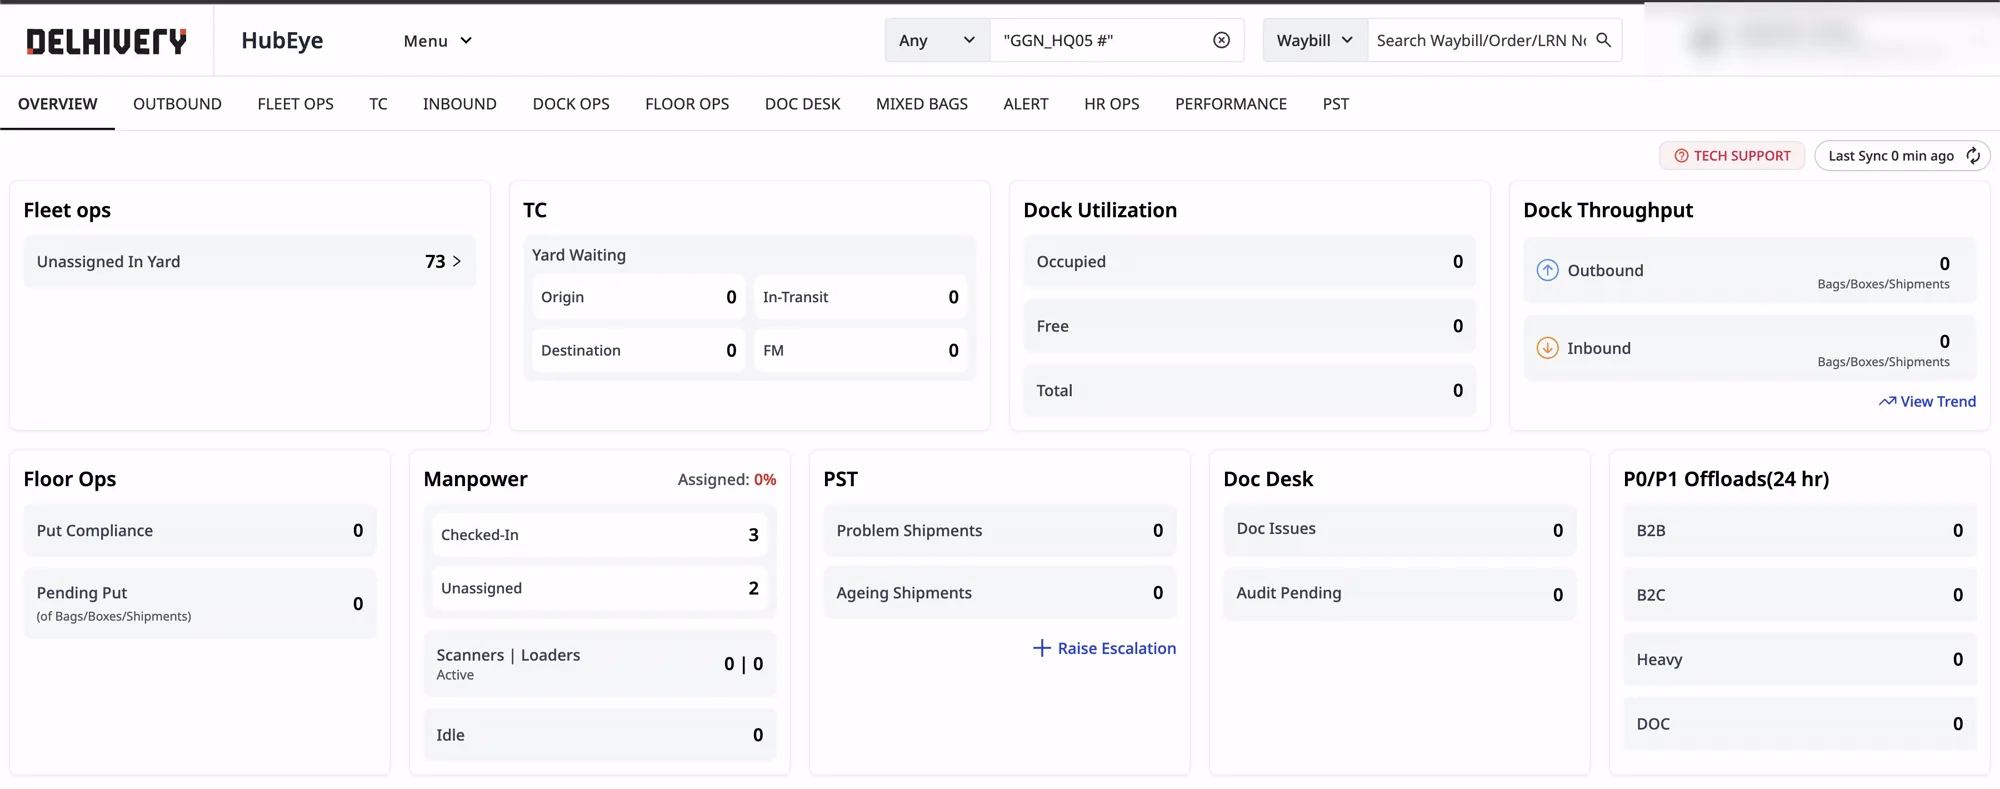
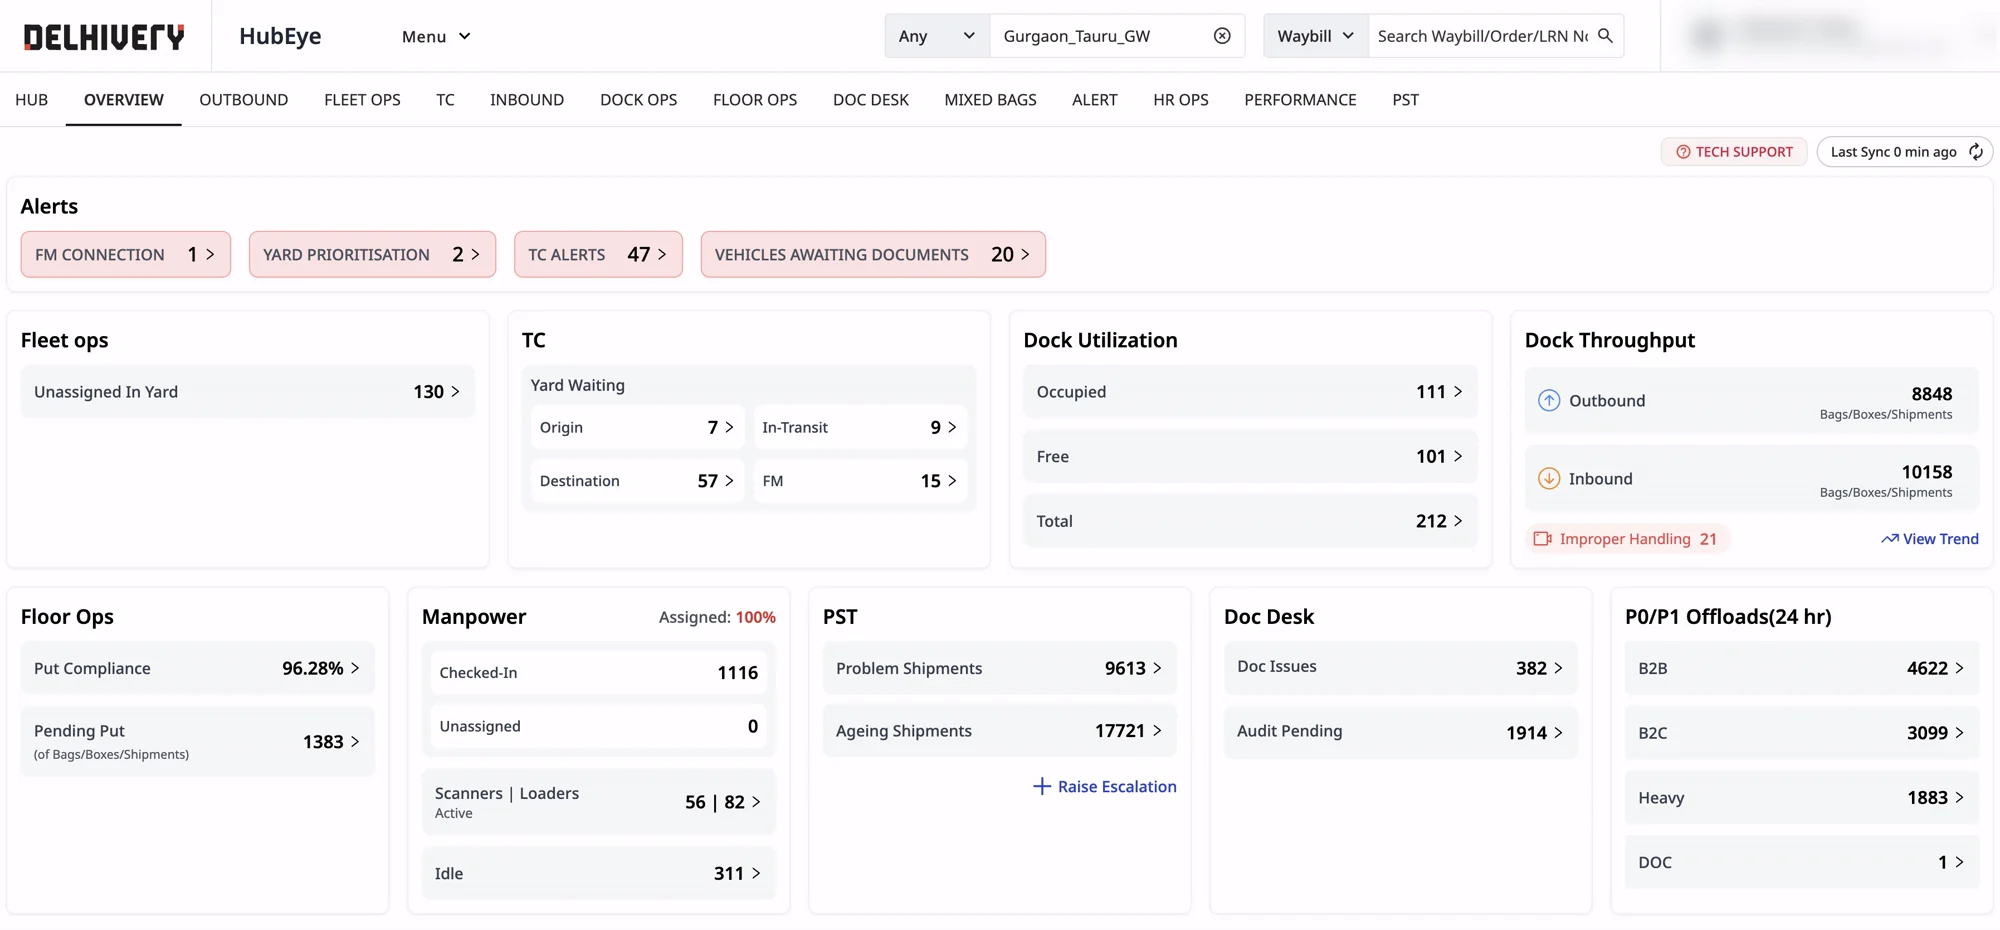
HubEye deck: 'Inside a Delhivery hub' slide, live Overview screenshot, HMW wording
New slide 2 introduces the hub: the annotated floor photo (sorters, docks,
sectors 1 to 4, 1,00,000+ shipments) with 140+ hubs, 100+ sectors per hub,
1.2M+ sq ft at the largest and 24/7, plus an inbound to outbound flow.

The Overview screenshot is now the live Gurgaon_Tauru_GW view with real
numbers, account blurred, with the same browser bar as Floor ops; the
curtain's Before uses it too. HMW line uses Mohit's wording.

diff --git a/js/hubeye-deck-slides.js b/js/hubeye-deck-slides.js
@@ -74,6 +74,28 @@ window.DECK = {
        workaround repeat the Existing HubEye, Research and Problem slides; the brief, the 140+ hubs
        and the scope now sit in the opening's notes. */
 
+    /* WHAT A HUB IS — the annotated floor photo with a few numbers (built by the enhancer) */
+    {
+      section: "context", type: "pair",
+      eyebrow: "What a hub is",
+      headline: ["Inside a Delhivery hub"],
+      highlight: "Delhivery hub",
+      sub: "Where shipments are sorted, staged and loaded, around the clock.",
+      figs: [],
+      hub: {
+        img: "hub-floor-annotated.webp",
+        cap: "A Delhivery hub floor: automatic sorters, docking stations and sectors 1 to 4, with 1,00,000+ shipments inside",
+        stats: [
+          { n: "140+", l: "Hubs and gateways across India" },
+          { n: "100+", l: "Floor sectors per hub" },
+          { n: "1.2M+", l: "Sq ft at the largest hubs" },
+          { n: "24/7", l: "Round-the-clock operations" }
+        ],
+        flow: ["Inbound dock", "Sectors", "Outbound dock"]
+      },
+      notes: "Before the software, the place. A Delhivery hub is where shipments are unloaded at inbound docks, sorted by automatic sorters into floor sectors by destination, staged, and loaded onto outbound vehicles, around the clock. There are 140+ hubs and gateways across India, each with 100+ floor sectors; the largest exceed 1.2 million square feet, and a single hub holds 1,00,000+ shipments at a time. Every one of those zones needs decisions in minutes."
+    },
+
     /* THE EXISTING HUBEYE */
     {
       section: "context", type: "pair",
@@ -82,7 +104,7 @@ window.DECK = {
       highlight: "passive experience",
       sub: "Alerts, tiles and tables across 14 tabs.",
       figs: [
-        { img: "old-overview-browser.webp", t: "Overview tab", d: "Alert counts and tiles, no location or priority.", tag: "Before" },
+        { img: "old-overview-browser.webp?v=2", t: "Overview tab", d: "Alert counts and tiles, no location or priority.", tag: "Before" },
         { img: "old-floorops.webp?v=3", t: "Floor ops tab", d: "Sector health as long tables to scan.", tag: "Before" }
       ],
       notes: "This is what supervisors had: alerts, tiles and tables across 14 tabs. Plenty to read, nothing that said where to act. Every number was there, but as counts and tables. To find a problem they had to read, cross-check tabs, then export."
@@ -104,7 +126,7 @@ window.DECK = {
           { n: "68%", l: "Dock throughput: unloading and loading" },
           { n: "140+", l: "Hubs and gateways carrying the risk" }
         ],
-        hmw: "How might we help hub managers spot and act on operational issues in real time, without leaving the dashboard?"
+        hmw: "How might we help hub managers spot and act on issues in real time, without external analysis tools?"
       },
       notes: "This is what watching without acting cost. Delhivery was losing about 5 crore rupees a month to missing or lost shipments at hubs; at that rate, about 60 crore a year. At a large gateway, 20K–25K shipments sat ageing past 12 hours, and dock throughput, the productivity of unloading and loading, was at 68%. And this runs across 140+ hubs and gateways. Put compliance (65% before) was one of the floor metrics, but not the core problem: ageing, missing shipments and productivity were. Why it happened: supervisors couldn't see where the problem was, because HubEye showed tables and tiles with no hub layout and took 14 tabs to see the whole hub. They couldn't tell what to fix first, because every number looked equally important and there was no alert or priority layer. And they couldn't see why something was red, because the insight lived outside the tool: Excel and paper, with 6+ hours lost every shift. Supervisors didn't lack data; they lacked a view that told them where to act and why."
     },
@@ -177,7 +199,7 @@ window.DECK = {
       sub: "The hub mapped 1:1: grey is normal, red is act now.",
       figs: [],
       twin: {
-        before: "old-overview.webp?v=2", after: "hub-map-full.webp?v=2",
+        before: "old-overview.webp?v=3", after: "hub-map-full.webp?v=2",
         cap: "HubEye digital twin: the whole hub mapped 1:1, with problem docks and sectors in red",
         labels: ["1:1 layout", "Grey or red", "1 click for the why"]
       },
@@ -252,6 +274,14 @@ window.DECK = {
     }
     // laptop screens open in the lightbox (smooth zoom) instead of zooming in place
     Array.prototype.forEach.call(el.querySelectorAll(".pr-laptop .pr-img"), function (x) { x.classList.remove("zoomable"); x.classList.add("rv-shot"); });
+    var hrow = hs.hub && el.querySelector(".pr-row");
+    if (hrow) {   // what a hub is: a few numbers beside the annotated floor photo, the flow under it
+      var hb = hs.hub;
+      hrow.className = "hb-hub";
+      hrow.innerHTML = "<div class='hbh-stats'>" + hb.stats.map(function (x) { return "<div class='hbh-stat'><b>" + esc(x.n) + "</b><span>" + esc(x.l) + "</span></div>"; }).join("") + "</div>" +
+        "<div class='hbh-visual'><figure class='rv-shot hbh-shot' title='Click to enlarge'><img src='" + D.imgBase + hb.img + "' alt='" + esc(hb.cap) + "'></figure>" +
+        "<ol class='hbh-flow'>" + hb.flow.map(function (x) { return "<li>" + esc(x) + "</li>"; }).join("") + "</ol></div>";
+    }
     var row = hs.biz && el.querySelector(".pr-row");
     if (row) {   // business problem: the money figure large, the other stats beside it
       var b = hs.biz;

diff --git a/css/hubeye-deck.css b/css/hubeye-deck.css
@@ -149,3 +149,16 @@ body.deck.hubeye[data-theme="dark"] .hb-impact .im-bar.post span { color: #04150
 .hb-hmw { margin: clamp(10px, 1.8vh, 18px) 0 0; font-size: clamp(13px, 1.05vw, 15px); line-height: 1.4; color: var(--soft); white-space: nowrap; overflow: hidden; text-overflow: ellipsis; }
 .hb-hmw span { font-size: 11px; font-weight: 700; letter-spacing: .12em; text-transform: uppercase; color: var(--accent); margin-right: 10px; }
 @media (max-width: 900px) { .hb-hmw { white-space: normal; } }
+/* what a hub is: compact numbers left, the annotated floor photo right, the flow under it */
+.hb-hub { display: grid; grid-template-columns: minmax(200px, .32fr) 1fr; gap: clamp(18px, 2.6vw, 36px); align-items: center; margin-top: clamp(14px, 2.6vh, 26px); }
+.hbh-stats { display: grid; gap: 10px; }
+.hbh-stat { padding: 12px 16px; border-radius: 14px; border: 1px solid var(--panel-line); background: var(--card); display: flex; flex-direction: column; gap: 4px; }
+.hbh-stat b { font-size: clamp(24px, 2.4vw, 34px); line-height: 1; font-weight: 800; color: var(--ink); letter-spacing: -.01em; }
+.hbh-stat span { font-size: 13px; line-height: 1.35; color: var(--soft); }
+.hbh-visual { display: flex; flex-direction: column; align-items: center; gap: 12px; min-width: 0; }
+.hbh-shot.rv-shot { margin: 0; max-width: calc((100vh - 400px) * 1.59); border: 0; box-shadow: 0 28px 70px rgba(0,0,0,.3); }
+.hbh-shot.rv-shot:hover { transform: none; }
+.hbh-flow { list-style: none; margin: 0; padding: 0; display: flex; align-items: center; gap: 8px; flex-wrap: wrap; justify-content: center; }
+.hbh-flow li { display: inline-flex; align-items: center; font-size: 13px; font-weight: 600; color: var(--soft); }
+.hbh-flow li + li::before { content: "→"; margin-right: 8px; color: var(--accent); font-weight: 700; }
+@media (max-width: 900px) { .hb-hub { grid-template-columns: 1fr; } .hbh-visual { order: -1; } .hbh-stats { grid-template-columns: 1fr 1fr; } .hbh-shot.rv-shot { max-width: none; } }

diff --git a/hubeye-deck.html b/hubeye-deck.html
@@ -11,7 +11,7 @@
       rel="stylesheet"
     />
     <link rel="stylesheet" href="css/jiomart-deck.css?v=136" />
-    <link rel="stylesheet" href="css/hubeye-deck.css?v=14" />
+    <link rel="stylesheet" href="css/hubeye-deck.css?v=16" />
   <link rel="stylesheet" href="./css/shimmer.css" />
   <link href="./css/gate.css?v=2" rel="stylesheet" />
 <script src="./js/shimmer.js"></script>
@@ -30,7 +30,7 @@
           <svg class="ic-sun" viewBox="0 0 24 24" fill="none" stroke="currentColor" stroke-width="2" stroke-linecap="round" stroke-linejoin="round"><circle cx="12" cy="12" r="4"/><path d="M12 2v2M12 20v2M4.9 4.9l1.4 1.4M17.7 17.7l1.4 1.4M2 12h2M20 12h2M4.9 19.1l1.4-1.4M17.7 6.3l1.4-1.4"/></svg>
           <svg class="ic-moon" viewBox="0 0 24 24" fill="none" stroke="currentColor" stroke-width="2" stroke-linecap="round" stroke-linejoin="round"><path d="M21 12.8A9 9 0 1 1 11.2 3a7 7 0 0 0 9.8 9.8z"/></svg>
         </button>
-        <div class="counter"><b id="slideNow">01</b> / <span id="slideTotal">9</span></div>
+        <div class="counter"><b id="slideNow">01</b> / <span id="slideTotal">10</span></div>
       </div>
     </header>
 
@@ -59,7 +59,7 @@
       </aside>
     </div>
 
-    <script src="js/hubeye-deck-slides.js?v=18"></script>
+    <script src="js/hubeye-deck-slides.js?v=20"></script>
     <script src="js/jiomart-deck.js?v=138"></script>
     <script src="./js/gate.js?v=3"></script>
   </body>

diff --git a/hubeye.html b/hubeye.html
@@ -179,7 +179,7 @@
         </div>
         <h3 class="hx-sub">The existing HubEye: rich data, passive experience</h3>
         <div class="hx-photos two hx-old">
-          <figure><img src="./images/hubeye/old-overview-browser.webp" alt="Overview tab: alert counts and tiles, no location or priority" loading="lazy" /><figcaption>Overview tab: alert counts and tiles, no location or priority</figcaption></figure>
+          <figure><img src="./images/hubeye/old-overview-browser.webp?v=2" alt="Overview tab: alert counts and tiles, no location or priority" loading="lazy" /><figcaption>Overview tab: alert counts and tiles, no location or priority</figcaption></figure>
           <figure><img src="./images/hubeye/old-floorops.webp?v=3" alt="Floor ops tab: sector health as long tables to scan by hand" loading="lazy" /><figcaption>Floor ops tab: sector health as long tables to scan by hand</figcaption></figure>
         </div>
         <ol class="hx-flow">
